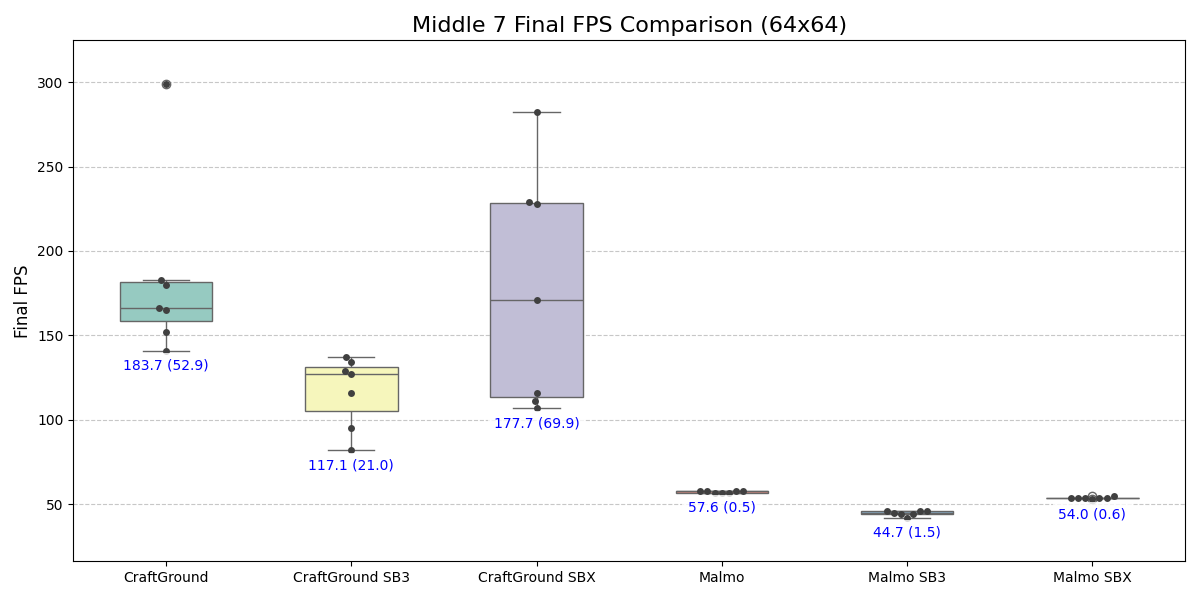
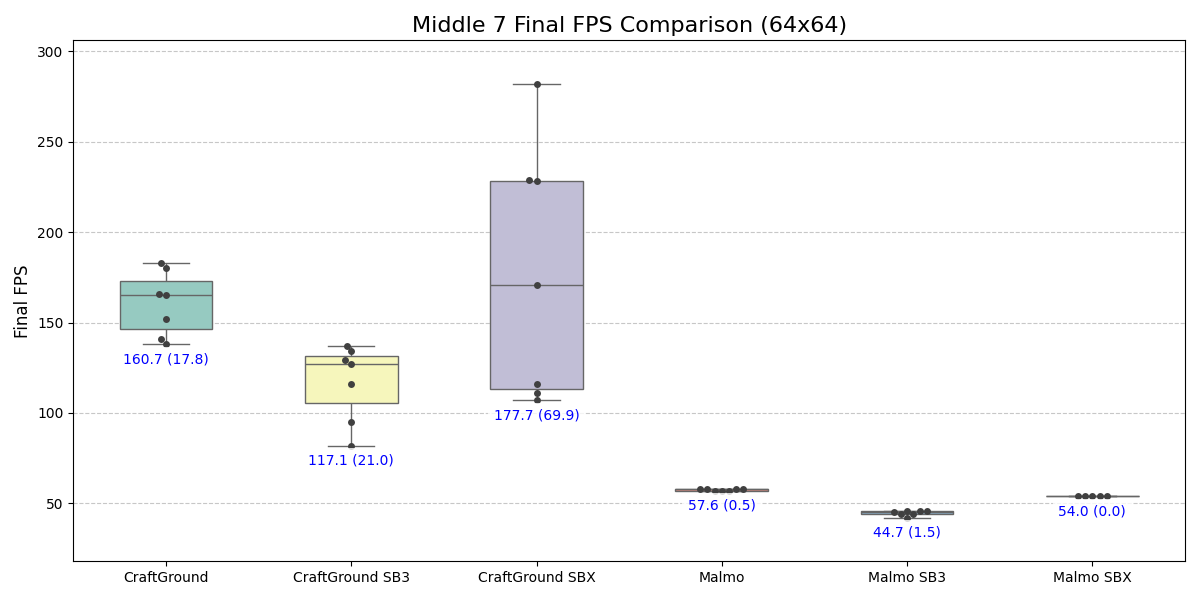
✨ Add sbx exp more

diff --git a/experiments/craftground_exp.py b/experiments/craftground_exp.py
@@ -209,7 +209,9 @@ def do_experiment(
         "640x360": (640, 360),
     }[image_width]
 
-    group_name = "v2-"
+    group_name = (
+        "v3-"  # v3 is added to reduce the variance of craftground-sbx-render-ppo
+    )
     if device == "cpu":
         group_name += "cpu-"
         jax.config.update("jax_platform_name", "cpu")

diff --git a/post_processing/group_fps.py b/post_processing/group_fps.py
@@ -176,5 +176,5 @@ def group_fps_topk(
 if __name__ == "__main__":
     current_dir = os.path.dirname(os.path.abspath(__file__))
     csv_file = os.path.join(current_dir, "data", "all.csv")
-    grouped_dict = group_fps_topk(csv_file, k=9)
+    grouped_dict = group_fps_topk(csv_file, k=5)
     print(grouped_dict)
